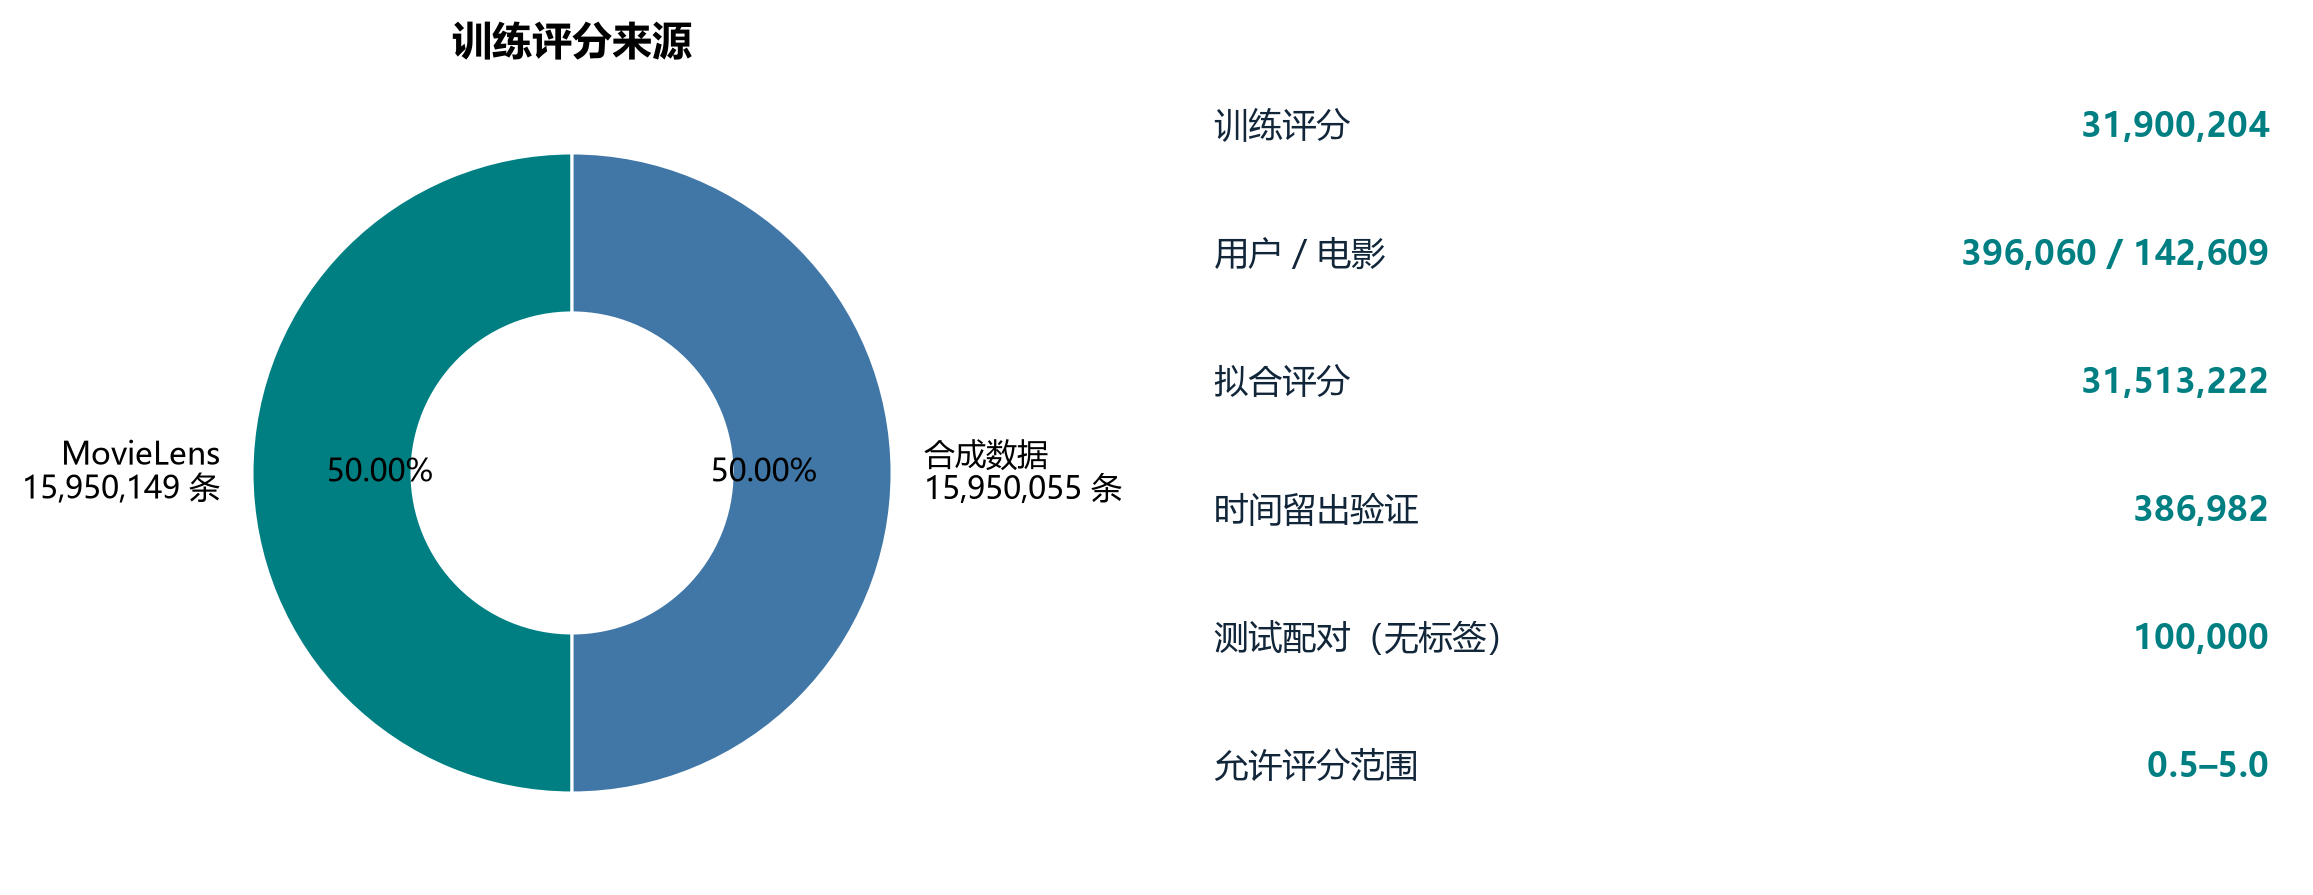
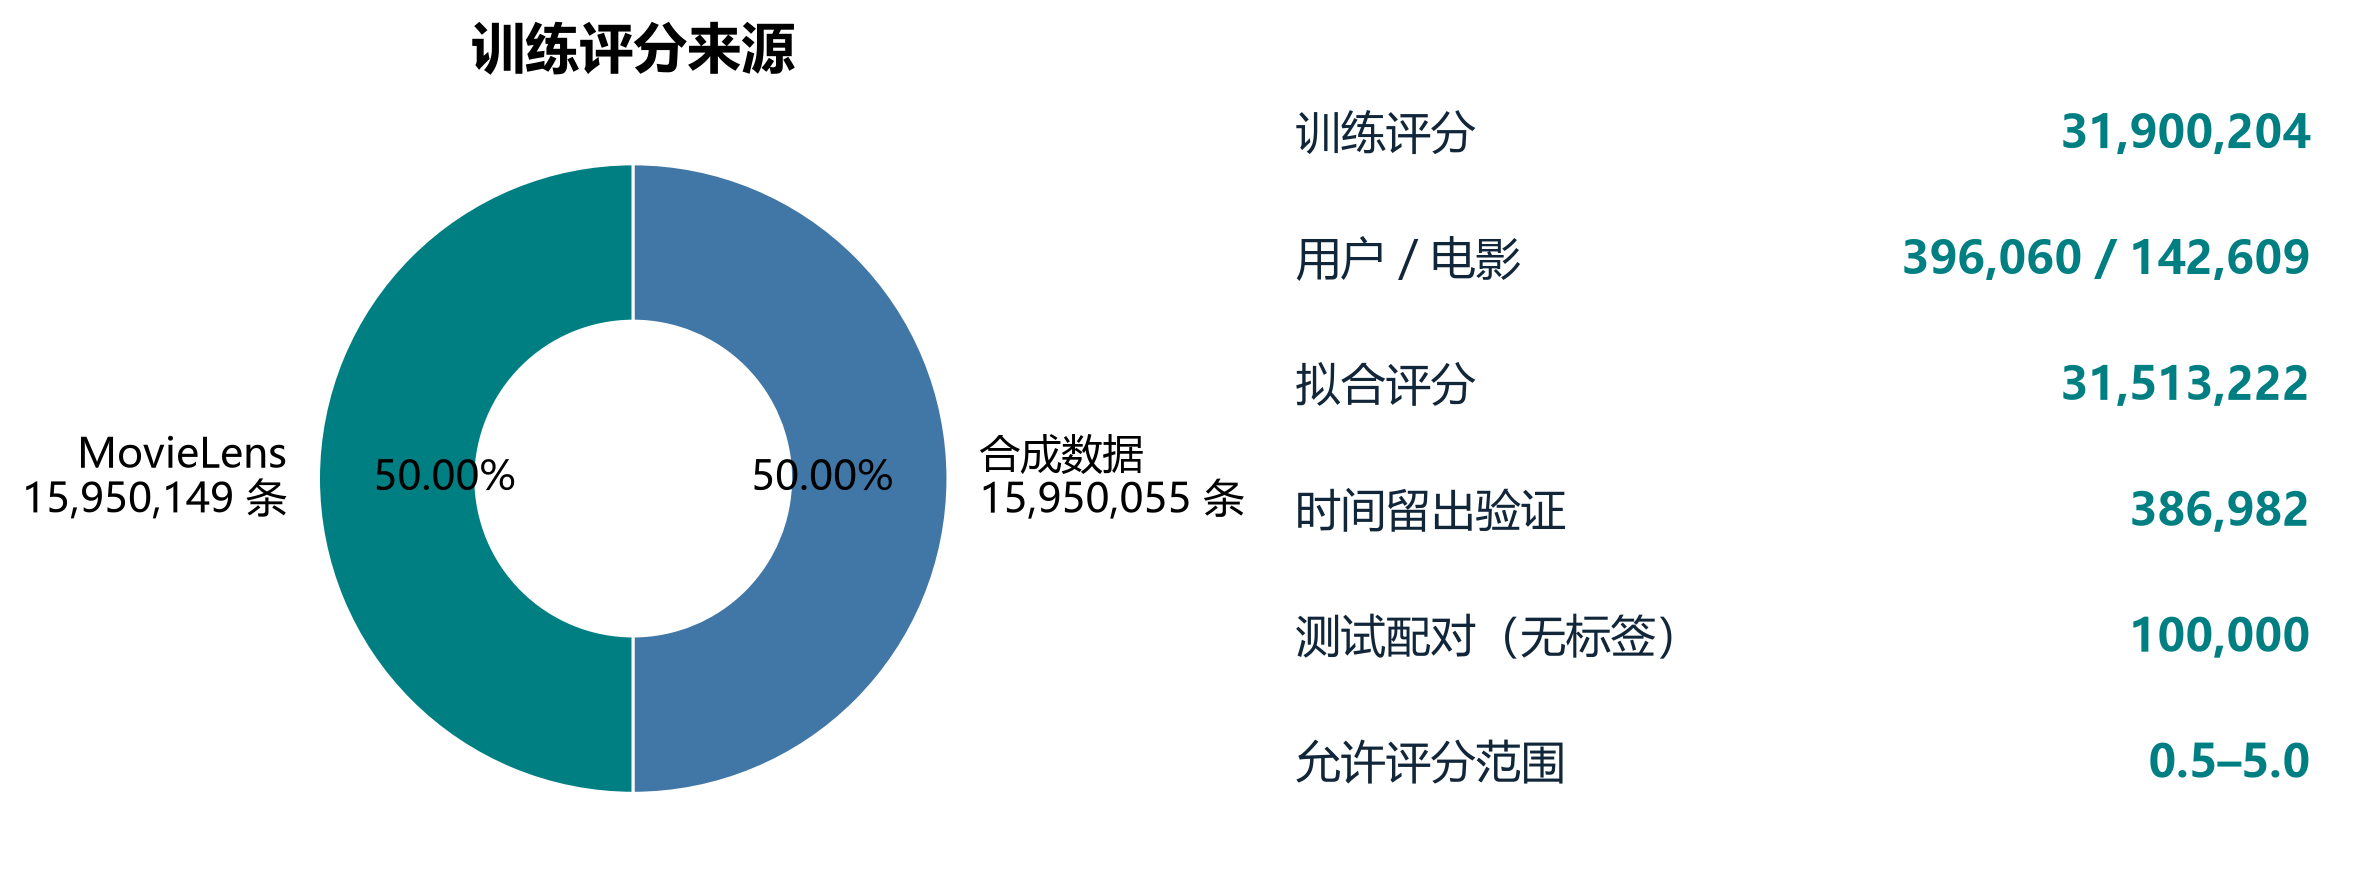
Improve printable report figures and editable Word export

diff --git a/docs/build_course_docx.py b/docs/build_course_docx.py
@@ -9,6 +9,7 @@ from docx import Document
 from docx.enum.text import WD_ALIGN_PARAGRAPH
 from docx.oxml import OxmlElement
 from docx.oxml.ns import qn
+from docx.opc.constants import RELATIONSHIP_TYPE as RT
 from docx.shared import Cm, Inches, Pt
 
 
@@ -21,12 +22,27 @@ def set_font(run,name='宋体',size=12,bold=False):
 
 
 def add_text(paragraph,text,name='宋体',size=12,bold=False):
-    # Keep link captions readable in print; URLs remain available in Markdown.
-    text=re.sub(r'\[([^\]]+)\]\(([^)]+)\)',r'\1',text)
     text=text.replace('`','')
     pieces=re.split(r'(\*\*.*?\*\*)',text)
     for part in pieces:
-        if part:set_font(paragraph.add_run(part.strip('*') if part.startswith('**') else part),name,size,bold or part.startswith('**'))
+        if not part:continue
+        active_bold=bold or part.startswith('**')
+        part=part.strip('*') if part.startswith('**') else part
+        cursor=0
+        for match in re.finditer(r'\[([^\]]+)\]\((https?://[^)]+)\)',part):
+            if match.start()>cursor:set_font(paragraph.add_run(part[cursor:match.start()]),name,size,active_bold)
+            link=OxmlElement('w:hyperlink')
+            link.set(qn('r:id'),paragraph.part.relate_to(match[2],RT.HYPERLINK,is_external=True))
+            r=OxmlElement('w:r');props=OxmlElement('w:rPr')
+            fonts=OxmlElement('w:rFonts')
+            for key in ['eastAsia','ascii','hAnsi']:fonts.set(qn('w:'+key),name)
+            props.append(fonts)
+            sz=OxmlElement('w:sz');sz.set(qn('w:val'),str(int(size*2)));props.append(sz)
+            color=OxmlElement('w:color');color.set(qn('w:val'),'0563C1');props.append(color)
+            underline=OxmlElement('w:u');underline.set(qn('w:val'),'single');props.append(underline)
+            r.append(props);t=OxmlElement('w:t');t.text=match[1];r.append(t);link.append(r);paragraph._p.append(link)
+            cursor=match.end()
+        if cursor<len(part):set_font(paragraph.add_run(part[cursor:]),name,size,active_bold)
 
 
 def format_paragraph(p,indent=True):
@@ -93,17 +109,21 @@ def build(source:Path,output:Path,author:str):
             table.autofit=True
             for rowidx,values in enumerate(rows):
                 row=table.rows[0] if rowidx==0 else table.add_row()
+                no_split=OxmlElement('w:cantSplit');row._tr.get_or_add_trPr().append(no_split)
                 for cell,text in zip(row.cells,values):
                     p=cell.paragraphs[0];format_paragraph(p,False)
                     p.paragraph_format.space_after=Pt(2)
+                    p.paragraph_format.keep_with_next=rowidx<len(rows)-1
                     add_text(p,text,bold=rowidx==0)
                 if rowidx==0:
                     repeat=OxmlElement('w:tblHeader');row._tr.get_or_add_trPr().append(repeat)
             doc.add_paragraph().paragraph_format.space_after=Pt(0)
             continue
         else:
-            p=doc.add_paragraph();format_paragraph(p,not line.startswith('图 '))
-            if line.startswith('图 '):p.alignment=WD_ALIGN_PARAGRAPH.CENTER
+            caption=line.startswith(('图 ','表 '))
+            p=doc.add_paragraph();format_paragraph(p,not caption)
+            if caption:p.alignment=WD_ALIGN_PARAGRAPH.CENTER
+            if line.startswith('表 '):p.paragraph_format.keep_with_next=True
             add_text(p,line)
         index+=1
     footer=sec.footer.paragraphs[0];footer.alignment=WD_ALIGN_PARAGRAPH.CENTER

diff --git a/docs/create_course_figures.py b/docs/create_course_figures.py
@@ -25,6 +25,11 @@ SOURCES={}
 def read(rel):return json.loads((ROOT/rel).read_text(encoding='utf-8'))
 def save(fig,name,sources):
     OUT.mkdir(parents=True,exist_ok=True)
+    # Figures are printed at about 6 inches in an A4 paper, smaller than their
+    # authoring canvas. Enlarge labels before final layout for readable print.
+    for item in fig.findobj(match=matplotlib.text.Text):
+        item.set_fontsize(item.get_fontsize()*1.35)
+    fig.tight_layout()
     fig.savefig(OUT/name,dpi=220,bbox_inches='tight')
     plt.close(fig);SOURCES[name]=sources
 def bars(ax,labels,values,colors=None):
@@ -113,7 +118,7 @@ def transformer_figures():
         ax.text(x+w/2,y+h/2,t,ha='center',va='center',transform=ax.transAxes,color=NAVY if x<.7 else 'white',fontsize=11)
     for p,q in [((.3,.78),(.38,.78)),((.3,.33),(.38,.33)),((.63,.78),(.73,.72)),((.63,.33),(.73,.60)),((.855,.55),(.855,.30)),((.63,.30),(.73,.24)),((.63,.10),(.73,.16))]:
         ax.annotate('',xy=q,xytext=p,xycoords='axes fraction',arrowprops={'arrowstyle':'->','lw':2,'color':TEAL})
-    ax.text(.02,.02,'结构示意；仅训练评分模型，预训练文本编码器冻结；并非完整复现 HLLM 或 HSTU。',fontsize=10,color=GREY,transform=ax.transAxes)
+    ax.text(.02,.02,'结构示意；冻结文本编码器，三个评分分支按验证结果融合。',fontsize=10,color=GREY,transform=ax.transAxes)
     fig.tight_layout();save(fig,'stage6_transformer_architecture.png',['06_integration_ablation/scripts/transformer_regression.py','06_integration_ablation/scripts/encode_movie_semantics.py'])
 
     rows=selection['ablation_summary']+[{'variant':'final_ensemble','mean_rmse':ensemble['two_seed_mean_rmse'],'std_rmse':ensemble['two_seed_std_rmse']}];labels={'full':'ALS初始化 + Qwen + Transformer','no_semantics':'ALS初始化，移除 Qwen 语义','no_attention':'ALS初始化，自注意力换为 MLP','no_als_init':'随机初始化 + Qwen + Transformer','mf_only':'ALS初始化，仅因子微调',
